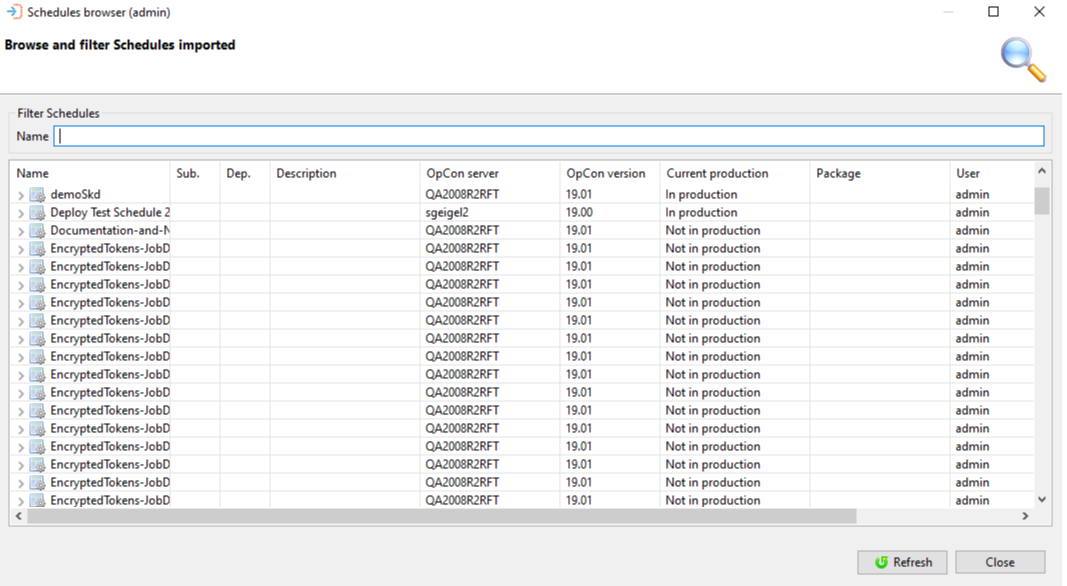
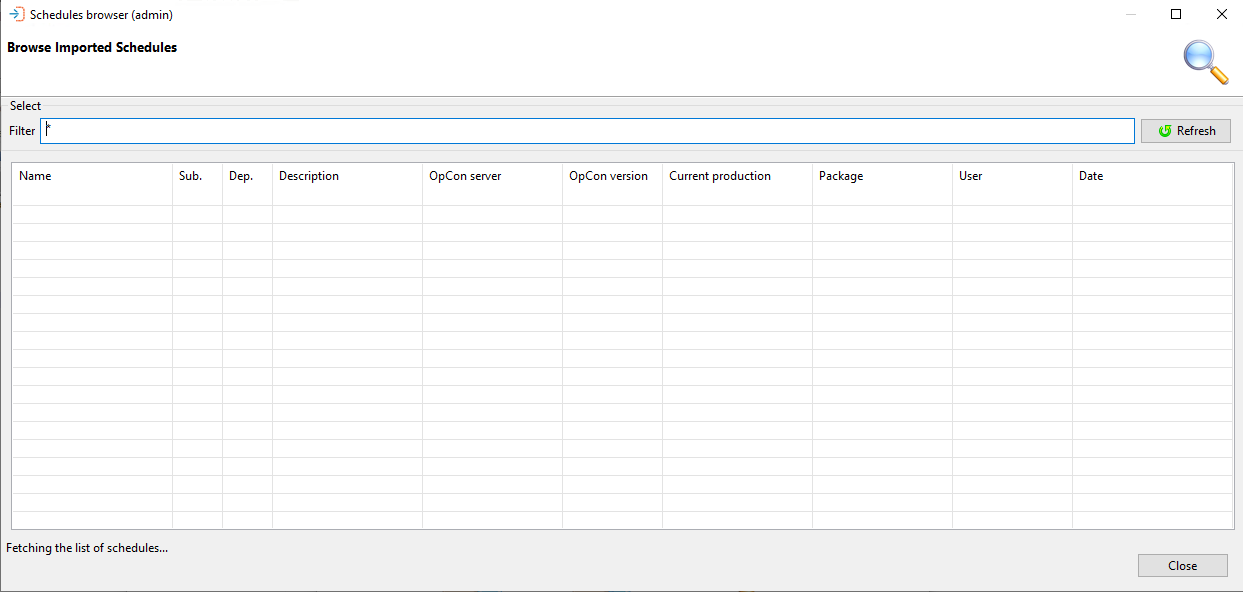
document updates for version 22.5

diff --git a/docs/deployments/deployments.md b/docs/deployments/deployments.md
@@ -30,17 +30,21 @@ The deployment process begins with the selection of the type of deployment. Foll
 
 To deploy a schedule, select the Schedule icon. The Select a Schedule to deploy dialog appears and you will need to select the schedule definition.
 
+The Select a Schedule to deploy dialog presents a screen and a **Select** capability that allows you to enter a text string to retrieve specific schedule records or use the displayed default value of asterix (*) to retrieve all schedule records.
+Once the text string has been entered select the **Refresh** button and the schedule information will be displayed. Subsequent requests will be added to the existing list. It must be noted that wild cards are not supported, instead the text entered in the 
+**Name** field is checked against the schedule name in the schedule record (i.e. test will return all schedule records that contain the character sequence in the name).
+
+![Deployment Schedule Selection Dialog](../../static/img/deployment-schedule-selection.png)
+
 A list of schedule names appears in the upper portion of the dialog. When a schedule is selected, a list of versions available for the schedule appears in the lower table.
+
+Once a schedule has been selected, select the Next button.
 
 :::caution
 
 Once a schedule has been included in a package, it can no longer be deployed as a separate entity. If a user with administration privileges is logged in, a list of all schedules will be displayed, as there may be exceptional circumstances when a schedule of a package needs to be updated.
 
 :::
-
-Once a schedule has been selected, select the Next button.
-
-![Deployment Schedule Selection Dialog](../../static/img/deployment-schedule-selection.png)
 
 Once the schedule has been selected, the next task is to select the target OpCon system to which the schedule will be deployed. It should be noted that the user role of the user will define what OpCon systems are present in the drop-down list. For example, if the user role is Production, then only Production OpCon systems will appear in the list.
 
@@ -58,6 +62,10 @@ Once a target OpCon system has been selected, the user has four options (Next, S
 | Deploy | Select Deploy to deploy the schedule to the target OpCon system immediately (This is the default option) |
 
 When Next is selected, it will be possible to add transformation rules to the deployment process. It should be noted that it is possible to add a set of transformation rules to a server that will be used for every deployment to that server.
+
+The Select transformation rules dialog presents a screen and a **Select** capability that allows you to enter a text string to retrieve specific transformation rule records or use the displayed default value of asterix (*) to retrieve all transformation rule records.
+Once the text string has been entered select the **Refresh** button and the transformation rule information will be displayed. Subsequent requests will be added to the existing list. It must be noted that wild cards are not supported, instead the text entered in the 
+**Name** field is checked against the transformation rule name in the transformation rule record (i.e. test will return all transformation rule records that contain the character sequence in the name).
 
 ![Deployment Transformation Rule Selection Dialog](../../static/img/deployment-transformation-rule-selection.png)
 
@@ -200,13 +208,17 @@ If the deployment errors, a message will be displayed informing the user why the
 
 To deploy a package, select the Package icon. The Select a Package to deploy dialog appears and you will need to select the package definition.
 
+The Select a Package to deploy dialog presents a screen and a **Select** capability that allows you to enter a text string to retrieve specific package records or use the displayed default value of asterix (*) to retrieve all package records.
+Once the text string has been entered select the **Refresh** button and the package information will be displayed. Subsequent requests will be added to the existing list. It must be noted that wild cards are not supported, instead the text entered in the 
+**Name** field is checked against the package name in the package record (i.e. test will return all package records that contain the character sequence in the name).
+
+![Deployment Package Selection Dialog](../../static/img/deployment-package-selection.png)
+
 A list of package names appears in the upper portion of the dialog. When a package is selected, a list of versions available for the package appears in the lower table.
 
 Once a package has been selected, select the Next button.
 
-![Deployment Package Selection Dialog](../../static/img/deployment-package-selection.png)
-
-One the package has been selected, the next task is to select the target OpCon system to which the package will be deployed. It should be noted that the user role of the user will define what OpCon systems are present in the drop-down list. For example, if the user role is Production, then only Production OpCon systems will appear in the list.
+Once the package has been selected, the next task is to select the target OpCon system to which the package will be deployed. It should be noted that the user role of the user will define what OpCon systems are present in the drop-down list. For example, if the user role is Production, then only Production OpCon systems will appear in the list.
 
 ![Deployment Server Selection Dialog](../../static/img/deployment-server-selection.png)
 
@@ -237,7 +249,7 @@ If transformation rules are selected, the result of the deployment depends on th
 
 During deployment, once a server that allows transformation rules has been selected, transformation rules can be selected in the Transformation Rules Selection Dialog (seen below). The Build options and Summary screen includes the list of transformation rules that will be applied during the deployment. It should be noted that it is possible to add a set of transformation rules to a server that will be used for deployment to that server.
 
-![Deployment Transformation Rule Selection Dialog](../../static/img/deployment-transformation-rule-selection-dialog.png)
+![Deployment Transformation Rule Selection Dialog](../../static/img/deployment-package-transformation-rule.png)
 
 As noted in the [Transformation Rules](../transformations/transformation-rules) topic, the rules are listed in the order of what is applied before initiating deployment. This means the transformation rules will be applied as follows:
 

diff --git a/docs/packages.md b/docs/packages.md
@@ -10,6 +10,11 @@ The Packages functions support the capabilities required to manage package defin
 
 The Manage function allows packages to be managed in the OpCon Deploy system. It is possible to Add or Update (Save) package information.
 
+TheView or Edit Packages dialog presents a screen and a **Select** capability that allows you to enter a text string in the **Filter** field to retrieve specific package records or use the displayed default value of asterix (*) to retrieve all package records.
+Once the text string has been entered select the **Refresh** button and the package information will be displayed. Subsequent requests will result in the new selection being displayed. 
+
+It must be noted that wild cards are not supported, instead the text entered in the value in the **Filter** field is checked against the package name in the package record (i.e. GV will return all package records that contain the character sequence in the name).
+
 ![Package Management Dialog Image](../static/img/package-management-dialog.png)
 
 ### Select Package Section
@@ -86,7 +91,12 @@ This table contains descriptions of each field in the View/edit package section 
 | Default transformation rules | It is possible to define a set of transformation rules that will always be applied when the Package is selected during deployment |
 | Schedules | Select the schedules that form part of this package - A schedule can only belong to a single package |
 
-When adding default transformation rules to the server, select the Edit button and the Select one or more rules dialog will appear.
+When adding default transformation rules to the server, select the Edit button and the **Select one or more rules** dialog will appear.
+
+The Select one or more rules dialog presents a screen and a **Select** capability that allows you to enter a text string in the **Filter** field to retrieve specific transformation rule records or use the displayed default value of asterix (*) to retrieve all transformation rule records.
+Once the text string has been entered select the **Refresh** button and the transformation rule records will be displayed. Subsequent requests will be added to the existing list. The **Clear** button can be used to reset the list of previously selected transformation rule records.
+
+Transformation rules selected in the lower table, will remain in the upper selection screen after a reset.
 
 To add a transformation rule, either double-click or select the rule in the upper table and then select the include arrow. To remove a transformation rule, either double-click or select the rule in the lower table and the select the remove arrow.
 
@@ -104,7 +114,12 @@ It is possible to search for a value in the JSON by entering the required value 
 
 ![Viewing Transformation Rule Definitions from Package Dialog](../static/img/view-transformation-rule-package-definition.png)
 
-When adding default schedules to the package, select the Edit button and the Select one or more Schedules dialog will appear.
+When adding default schedules to the package, select the Edit button and the **Select one or more Schedules** dialog will appear.
+
+The Select one or more schedules dialog presents a screen and a **Select** capability that allows you to enter a text string in the **Filter** field to retrieve specific schedule records or use the displayed default value of asterix (*) to retrieve all schedule records.
+Once the text string has been entered select the **Refresh** button and the schedule records will be displayed. Subsequent requests will be added to the existing list. The **Clear** button can be used to reset the list of previously selected schedule records. 
+
+Schedules selected in the lower table, will remain in the upper selection screen after a reset.
 
 To add a schedule, either double-click or select the schedule in the upper table and then select the include arrow. To remove a schedule, either double-click or select the schedule in the lower table and the select the remove arrow.
 

diff --git a/docs/scripts.md b/docs/scripts.md
@@ -46,9 +46,18 @@ OpCon Deploy requires that each OpCon system participating in the OpCon Deploy e
 
 ![Deploy Scripts Invalid Image](../static/img/scripts-invalid-license.png)
 
-To start the OpCon Deploy process, select the Script OpCon Deploy function. The Script Deployment (Select Scripts) dialog appears and you will need to select a specific version to deploy. If the list of available versions is not visible, then click on the > indicator to the left of the script name and the list of versions will appear. To select a version either double-click on the version or select it and use the down arrow.
+To start the OpCon Deploy process, select the Script OpCon Deploy function. The Script Deployment (Select Scripts) dialog appears and you will need to select a specific version to deploy. 
+
+The Select Scripts dialog presents a screen and a **Select** capability that allows you to enter a text string in the **Filter** field to retrieve specific scripts records or use the displayed default value of asterix (*) to retrieve all script records.
+Once the text string has been entered select the **Refresh** button and the script information will be displayed. Subsequent requests will be added to the existing list. The **Clear** button can be used to reset the list of previously selected scripts. 
+
+Scripts selected in the lower table, will remain in the upper selection screen after a reset.
+
+It must be noted that wild cards are not supported, instead the text entered in the **Filter** field is checked against the script name in the script record (i.e. HP will return all script records that contain the character sequence in the name).
 
 ![Scripts Select Image](../static/img/scripts-select-scripts.png)
+
+If the list of available versions is not visible, then click on the > indicator to the left of the script name and the list of versions will appear. To select a version either double-click on the version or select it and use the down arrow.
 
 Once the scripts have been selected, select the Next button to select the OpCon system to which to deploy the scripts.
 
@@ -72,9 +81,13 @@ Click Close to return to the Script Deployment screen.
 
 This function provides the opportunity to display information about script definitions in the repository.
 
-![Browse Script Definition Image](../static/img/browse-script-definition.png)
+The Browse Imported Scripts dialog presents a screen and a **Select** capability that allows you to enter a text string in the **Filter** field to retrieve specific scripts records or use the displayed default value of asterix (*) to retrieve all script records.
+Once the text string has been entered select the **Refresh** button and the script information will be displayed. Subsequent requests will result in the new selection being displayed. 
 
-The Browse and filter Scripts imported dialog presents a list of all script records. This next table describes the information displayed in the dialog.
+It must be noted that wild cards are not supported, instead the text entered in the value in the **Filter** field is checked against the script name in the script record (i.e. HP will return all script records that contain the character sequence in the name).
+
+
+![Browse Script Definition Image](../static/img/browse-script-definition.png)
 
 To update the list of scripts displayed in the Browse and filter Scripts imported window, click Refresh, located in the bottom right corner of the window next to the Close button.
 

diff --git a/docs/administration/servers.md b/docs/administration/servers.md
@@ -67,9 +67,13 @@ The port of the OpCon RestAPI server (default 9010)
 
 Indicates if the connection to the OpCon RestAPI server uses TLS
 
-When adding default transformation rules to the server, select the Edit button and the Select one or more rules dialog will appear.
+When adding default transformation rules to the server, select the Edit button and the **Select one or more rules** dialog will appear.
 
 ![Default Transformation Rule Image](../../static/img/transformation-rule-selection-dialog.png)
+
+The Select one or more rules dialog presents a screen and a **Select** capability that allows you to enter a text string in the **Filter** field to retrieve specific transformation rule records or use the displayed default value of asterix (*) to retrieve all transformation rule records. If there are any records previously entered, they will be displayed in the selection and selected sections of the dialog. Once the text string has been entered select the **Refresh** button and the transformation rule information will be displayed. Subsequent requests will be added to the existing list. The **Clear** button can be used to reset the list of previously selected transformation rules. Transformation rules selected in the lower table, will remain in the upper selection screen after a reset.
+
+It must be noted that wild cards are not supported, instead the text entered in the **Filter** field is checked against the transformation rule name in the transformation rule record (i.e. HP will return all script records that contain the character sequence in the name).
 
 To add a transformation rule, either double-click on the rule in the upper table or select the rule in upper table then click the Include arrow. To remove a transformation rule, either double-click or select the rule in the lower table and the click the Remove arrow.
 

diff --git a/docs/transformations/transformation-rules.md b/docs/transformations/transformation-rules.md
@@ -82,15 +82,20 @@ Other important points to note:
 
 * The Browse function provides the opportunity to display information about the transformation rule as well as the definitions associated with the rule.
 
+The Browse Transformation Rules dialog presents a screen and a **Select** capability that allows you to enter a text string in the **Filter** field to retrieve specific transformation rule records or use the displayed default value of asterix (*) to retrieve all transformation rule records.
+Once the text string has been entered select the **Refresh** button and the transformation rule information will be displayed. Subsequent requests will result in the new selection being displayed. 
+
+It must be noted that wild cards are not supported, instead the text entered in the value in the **Filter** field is checked against the transformation rule name in the transformation rule record (i.e. PM will return all script records that contain the character sequence in the name).
+
 ![Transformation Rules Browse Image](../../static/img/transformation-rule-browse.png)
 
 * To update the list of transformation rules displayed in this window, click the Refresh button.
 
-### Browse and Filter Transformation Rules
+### Browse Transformation Rules
 
 * This allows the information associated with a transformation rule to be displayed as well as the definitions associated with the transformation rule.
 
-* The Browse and filter Transformation rules dialog presents a list of all transformation records. This next table describes the information displayed in the dialog.
+* The Browse Transformation Rules dialog presents a list of the filtered transformation records. This next table describes the information displayed in the dialog.
 
 | Column | Description |
 | ------ | ----------- |

diff --git a/docs/deployments/deployments-browse.md b/docs/deployments/deployments-browse.md
@@ -1,10 +1,21 @@
 # Deployments - Browse
 
-The Browse function can be used to examine the contents of a deployment record as well as submit a rollback request. When browse is selected, the View deployment records dialog appears.
+The Browse function can be used to examine the contents of a deployment record as well as submit a rollback request. 
 
-[View Deployment Records Dialog](View Deployment Records Dialog)
+The View Deployment Records dialog presents a screen and a **Select** capability that allows you to enter a text string to retrieve specific deployment records or use the displayed default value of asterix (*) to retrieve all deployment records.
+Once the text string has been entered select the **Refresh** button and the deployment information will be displayed. 
+Subsequent requests will result in the new selection being displayed. 
 
-To update the list of records displayed in the View Deployment Records window, click Refresh, located in the bottom right corner of the window next to the Close button.
+It must be noted that wild cards are not supported, instead the text entered in the **Name** field is checked against the deployment name in the deployment record (i.e. Test will return all deployment records that contain the character sequence in the name).
+
+The Filter deployment records selection list is automatically updated with the selection list after each selection.
+
+
+![Browse Deployment Definition](../../static/img/browse-deployment-definition.png)
+
+
+
+![Browse Deployment Definition](../../static/img/browse-deployment-definition1.png)
 
 ## Browse Actions
 

diff --git a/docs/schedules.md b/docs/schedules.md
@@ -53,9 +53,18 @@ To insert the definition in the repository, select the OK button. A message will
 
 The Browse function provides the opportunity to display information about schedule definitions in the repository.
 
+The Browse and filter Schedules imported dialog presents a screen and a **Select** capability that allows you to enter a text string to retrieve specific schedule records or use the displayed default value of asterix (*) to retrieve all schedule records.
+Once the text string has been entered select the **Refresh** button and the schedule information will be displayed. Subsequent requests will result in the new selection being displayed. 
+
+It must be noted that wild cards are not supported, instead the text entered in the value in the **Filter** field is checked against the schedule name in the schedule record (i.e. GV will return all schedule records that contain the character sequence in the name).
+
 ![Browse Schedule Definition](../static/img/browse-schedule-definition.png)
 
-The Browse and filter Schedules imported dialog presents a list of all schedule records. This next table describes the information displayed in the dialog.
+Browse and filter Schedules imported dialog presents a list of selected schedule records.
+
+![Browse Schedule Definition](../static/img/browse-schedule-definition1.png)
+
+ This next table describes the information displayed in the dialog.
 
 To update the schedule list in the Browse and filter Schedules imported window, click the Refresh button.
 

diff --git a/docs/release-notes.md b/docs/release-notes.md
@@ -4,6 +4,14 @@ sidebar_label: 'Release notes'
 
 # OpCon Deploy Release Notes
 
+## Version 22.5
+
+2023 September
+
+:eight_spoked_asterisk: **OPCDEPLOY-1353**: Fixed a performance issue with large databases when browsing records (schedules, transformation rules, scripts, deployments, and packages). 
+Previously, all records were retrieved from the database and then added to the selection lists when performing a request. Now, the user is required to enter a text string in the filter field and the filter text is used to retrieve only matched records from the database. User can still input an asterisk (*) as the filter text to fetch all records. 
+The filter does not support wild cards. For example, enter 'test' as the filter text to get records whose name includes 'test',
+
 ## Version 22.4
 
 2023 August

diff --git a/docs/index.md b/docs/index.md
@@ -7,7 +7,7 @@ sidebar_label: 'OpCon Deploy'
 
 OpCon Deploy is a separate application working on a central repository that contains the schedule definitions, transformation rules, and all the required configuration information to deploy the schedule definitions between OpCon environments in a controlled and consistent manner.
 
-The current version is **22.4**.
+The current version is **22.5**.
 
 ## Overview
 
